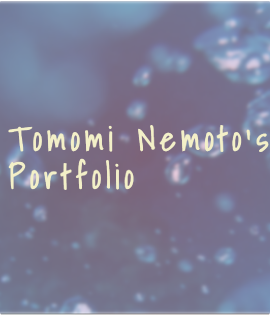
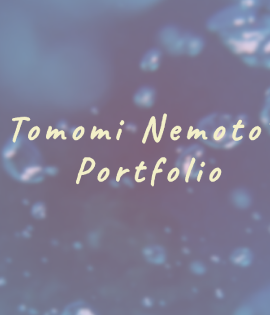
トップ名のフォントをデザイン通りの物へ修正。中央寄せ化。修正に伴うサムネイルの変更。

diff --git a/portfolio/src/component/contents/top/top.module.css b/portfolio/src/component/contents/top/top.module.css
@@ -5,13 +5,14 @@
     justify-content:center;
 }
 
-.top > span {
+.top div {
     position: fixed;
     z-index: -1;
     font-size: 100px;
     margin: 20px;
     font-weight: bold;
     color: rgb(243, 240, 200);
-    font-family: 'Shadows Into Light', cursive;
+    font-family: 'Caveat', cursive;
     letter-spacing: 15px;
+    text-align: center;
 }

diff --git a/portfolio/src/component/contents/top/Top.tsx b/portfolio/src/component/contents/top/Top.tsx
@@ -5,7 +5,10 @@ const Top = () => {
     return(
         <div className="/">
             <div className={style.top}>
-                <span>Tomomi Nemoto's <br/>Portfolio</span>
+                <div>
+                    Tomomi Nemoto's <br/>
+                    Portfolio
+                </div>
             </div>
         </div>
     );
